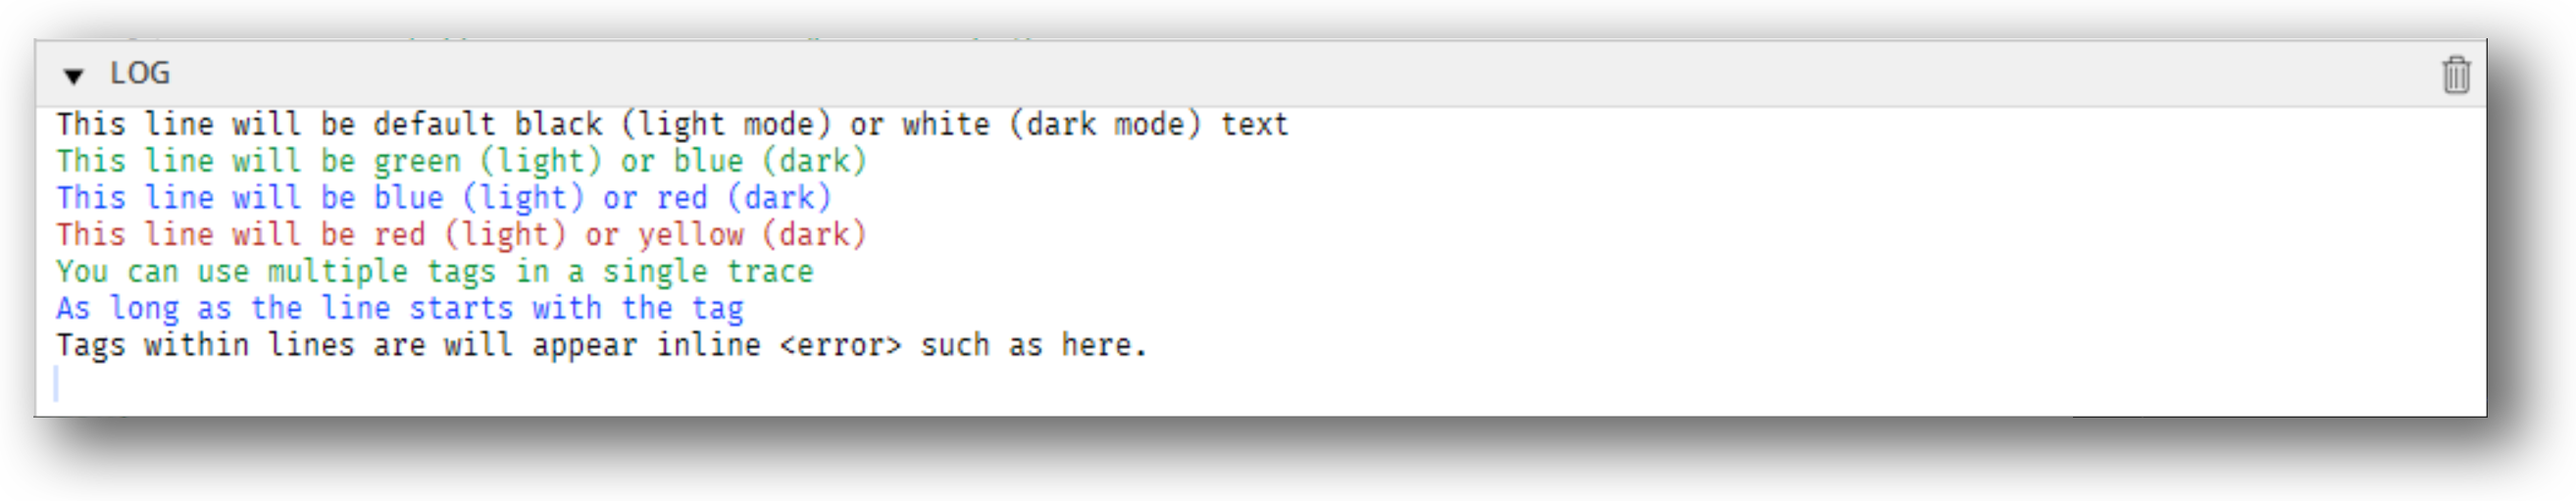
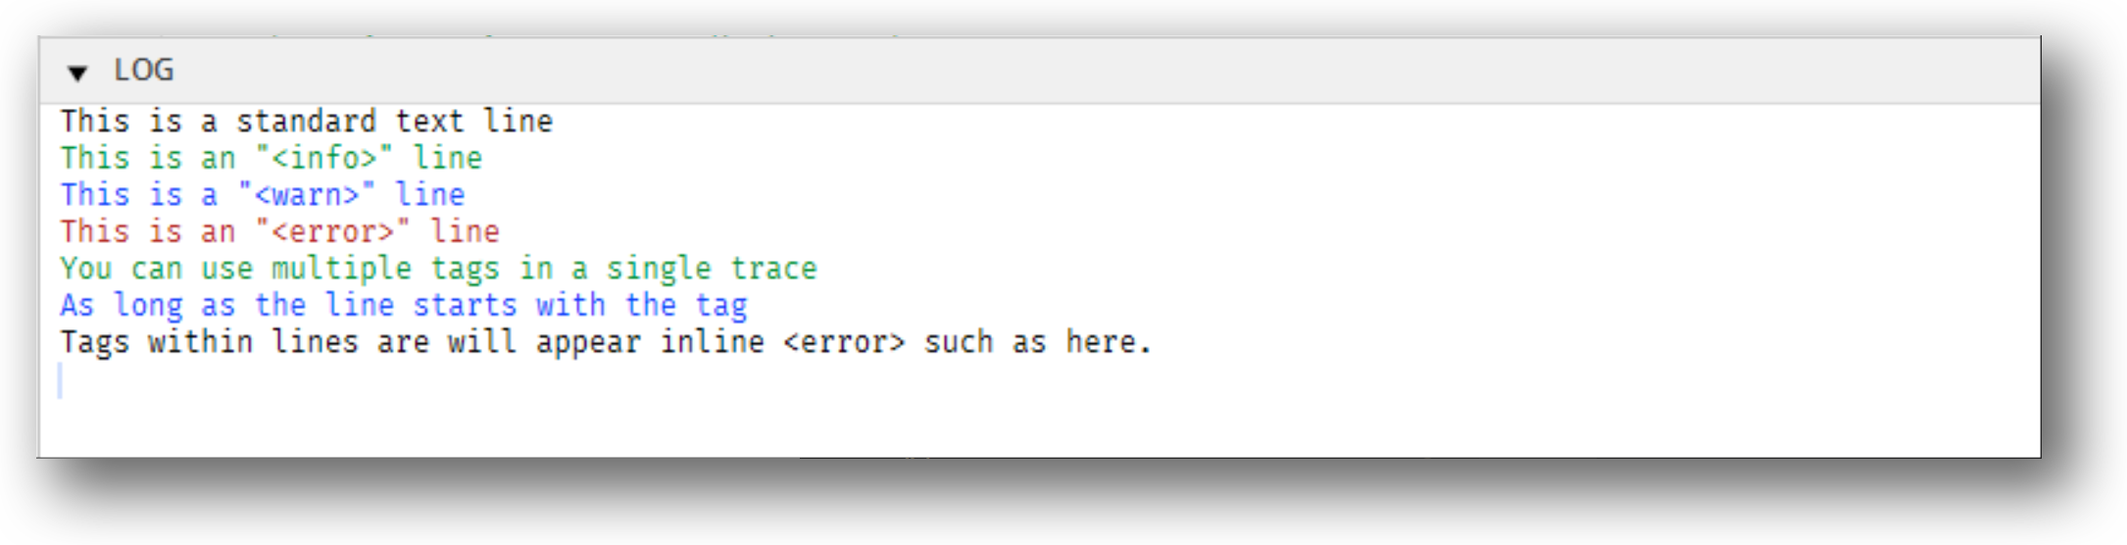
Minor cleanup of doc for log/console colors

Changed region(s): [[0.0, 0.0881, 0.988, 0.8513], [0.0, 0.0587, 0.9571, 0.1761]]

diff --git a/documentation/xs/xsbug.md b/documentation/xs/xsbug.md
@@ -95,13 +95,13 @@ The color used is dependent upon the dark/light theme that is selected.
 For example,
 
 ```js
-trace('This line will be default black (light mode) or white (dark mode) text\n');
-trace('<info>This line will be green (light) or blue (dark)\n');
-trace('<warn>This line will be blue (light) or red (dark)\n');
-trace('<error>This line will be red (light) or yellow (dark)\n');
+trace('This is a standard text line\n');
+trace('<info>This is an "<info>" line\n');
+trace('<warn>This is a "<warn>" line\n');
+trace('<error>This is an "<error>" line\n');
 
 trace('<info>You can use multiple tags in a single trace\n<warn>As long as the line ');
-trace('starts with the tag\nTags within lines are will appear inline <error> such as here.\n');
+trace('starts with the tag\n');
 ```
 
 ![](../assets/xsbug/colorize.png)
